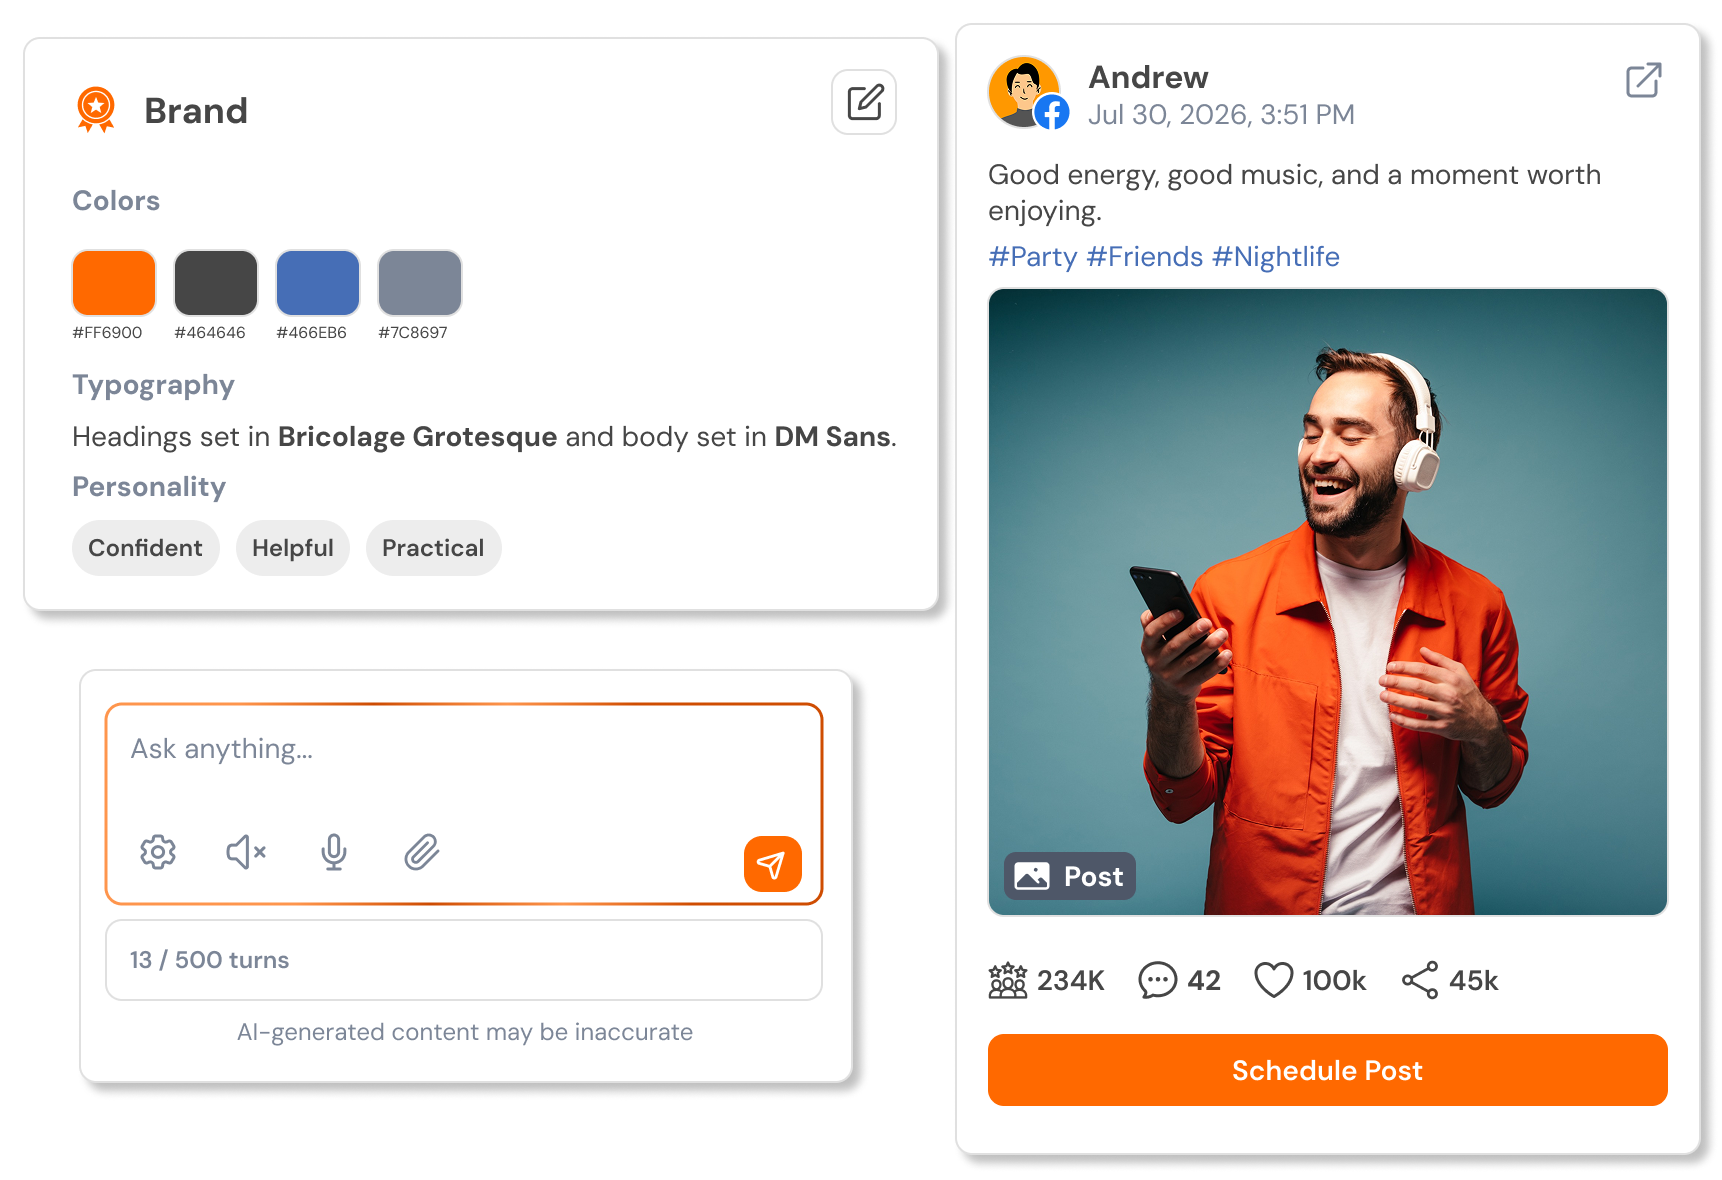
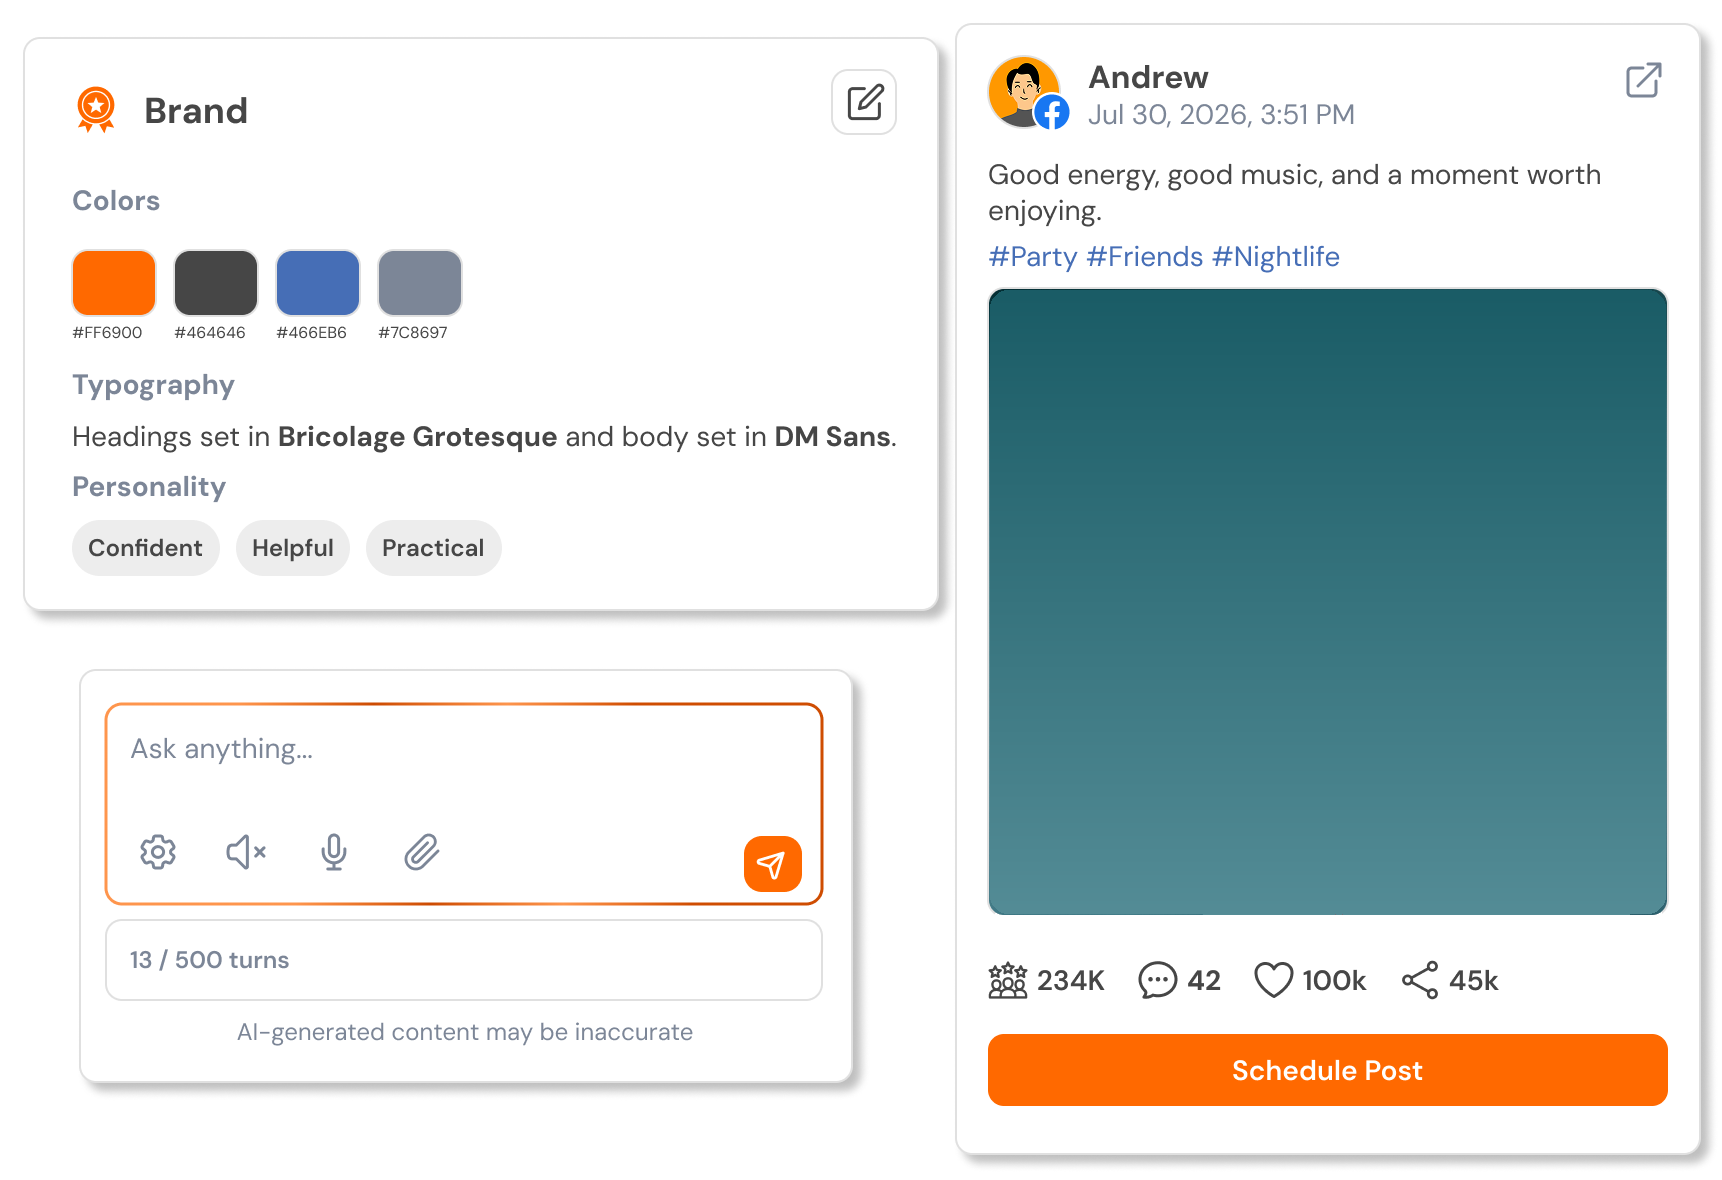
README: who Switch is, with every claim checked; licence and attribution fixes
Adds a "Who Switch is" section built only from the creator brief, the current
capability matrix and production code (ads: Google and Meta only; beta labels on
carousel artwork, sensitive replies and approvals; best time needs five posts;
listening and BYOK limits). Marks the example as a dramatised scene, adds the
elevenlabs.io title attribution and a demonstration-only note for the free-plan
audio, gives the Social Champ assets an explicit owner and permission grant, and
replaces the stock photo inside brand.png with a plain fill. From a /tri-review
(Claude + Codex; Gemini unavailable).

Changed region(s): [[0.554, 0.2746, 0.9849, 0.7932], [0.554, 0.2441, 0.6771, 0.3051]]

diff --git a/README.md b/README.md
@@ -7,7 +7,7 @@ and scripted checks before anyone watches it.
 You write the scene. The `/character-reel` skill walks Claude through the story, the voice direction, the ElevenLabs
 take, the timing fixes, the render, the mix and the gates.
 
-## The example reel
+## The example reel (voices: elevenlabs.io)
 
 ![Storyboard of the example reel](media/example-storyboard.jpg)
 
@@ -15,15 +15,54 @@ take, the timing fixes, the render, the mix and the gates.
 [full 1080x1920 version](https://github.com/SameerKhan/character-reel-kit/releases/latest) ·
 [poster frame](media/example-poster.jpg)
 
-*That's a wrap*: Leo, a social media manager, posted his lunch on a client's LinkedIn. Switch, the AI, tells him it
+*That's a wrap* (a dramatised scene; the people, posts and numbers in it are fictional): Leo, a social media manager, posted his lunch on a client's LinkedIn. Switch, the AI, tells him it
 is doing numbers (900 likes, against 12 on the launch post), explains why it worked (it went out at the account's
 best time to post), and Leo schedules tomorrow's launch for the same minute. He then goes to get lunch. Switch:
 "Don't post it." Leo: "Already scheduled. Same wrap."
 
 The reel is Social Champ's: its brand, the Switch mascot, the screen captures and the characters are not covered by
-this repo's MIT licence (see [LICENSE](LICENSE)). **Audio: voices generated with [ElevenLabs](https://elevenlabs.io)
-(Eleven v3, default voices "Liam" and "Jessica")**, on the free plan, which allows non-commercial use with this
-credit; publishing your own reels commercially needs a paid ElevenLabs plan.
+this repo's MIT licence (see [LICENSE](LICENSE)). **Audio: voices generated with [elevenlabs.io](https://elevenlabs.io)
+(Eleven v3, default voices "Liam" and "Jessica")**. The example audio was made on ElevenLabs' free plan, which carries
+no commercial licence: it is included only to demonstrate the kit and must not be reused, and any reel you publish for
+a business needs audio generated on a paid ElevenLabs plan.
+
+## Who Switch is
+
+Switch is the AI assistant inside [Social Champ](https://www.socialchamp.com), the social media management
+platform. In the reels it is the orange, furry mascot with glowing eyes. In the product it is a chat panel that is
+already connected to your channels, your published posts, your analytics, your inbox and your approval queue. You
+type a sentence and it does the job inside the product (drafting, rescheduling, approving, pausing an ad) instead of
+handing you text to paste somewhere else.
+
+What Switch does today:
+
+- **Writes from your own posts.** Drafts are style-matched to what the account actually published: punctuation and
+  capitalisation are measured from real posts and applied to the draft. Ask for three hooks (curiosity gap, bold
+  claim, specific story) and it recommends one; ask for a six-slide carousel and it lays out the hook-to-CTA arc
+  (generated slide artwork in your brand colours is in beta).
+- **Answers "what's working" in the chat.** Best-performing posts and why, charts inline, and the best time to post
+  from the account's own history (once it has at least five logged posts), not a generic chart. This is the one idea
+  the example reel turns on.
+- **Schedules and reschedules in one line.** "Move everything from Friday to next Monday." Bulk-schedules up to 50
+  posts with a preview first, across LinkedIn, Instagram, X, Facebook, TikTok, Threads, Reddit, YouTube and
+  Pinterest, and creates shareable calendar links for clients.
+- **Triages the inbox.** Pulls unread comments and DMs from your connected channels and drafts friendly, apologetic
+  or celebratory replies; empathetic, defusing and boundary-setting replies for harder situations are in beta.
+- **Handles team approvals (beta).** Shows what is pending and who is waiting, approves or rejects with a note, and
+  reminds approvers.
+- **Runs paid campaigns on Google and Meta.** Launch, adjust and pause campaigns from the chat, with a typed
+  confirmation before larger spends and one prompt that pauses every active campaign on your connected ad accounts.
+- **Listens.** Recent brand mentions and competitors' top posts, plus keyword alerts created from the chat on
+  Reddit, YouTube, LinkedIn, Bluesky, Facebook and Instagram (Facebook and LinkedIn alerts also need Pages picked in
+  the Listening screen; listening depends on the plan).
+- **Works with your own AI key.** Where the plan allows it, the account owner can connect their own Anthropic
+  (Claude), OpenAI or Google (Gemini) API key. Social Champ charges nothing extra (you pay your AI provider directly), and the usage that runs
+  on your key no longer counts against Switch's monthly limit.
+
+Switch's own disclaimer, as shown in the app: *"Switch can get things wrong. Check anything before it goes out."*
+
+The reels in this kit follow one rule taken from that list: each episode shows **one** capability, and it solves the
+human's problem. Showing four capabilities in one reel was rejected as "too many features, the script gets lost".
 
 ## Why this exists
 
@@ -73,5 +112,7 @@ Chromium. An ElevenLabs API key only for voicing new lines.
 
 ## Licence
 
-Code: MIT. Brand, mascot, characters, screen captures and the example reel: Social Champ, all rights reserved.
-Example audio: generated with ElevenLabs.
+Code: MIT, except the files and designs listed in [LICENSE](LICENSE): the Social Champ brand assets, the Switch and
+Leo character designs (`switch.js`, `man.js`), the screen captures and the example reel belong to Social Champ, with a
+limited permission to download and render them to try the kit. Example audio: generated with elevenlabs.io on the free
+plan, for demonstration only.
